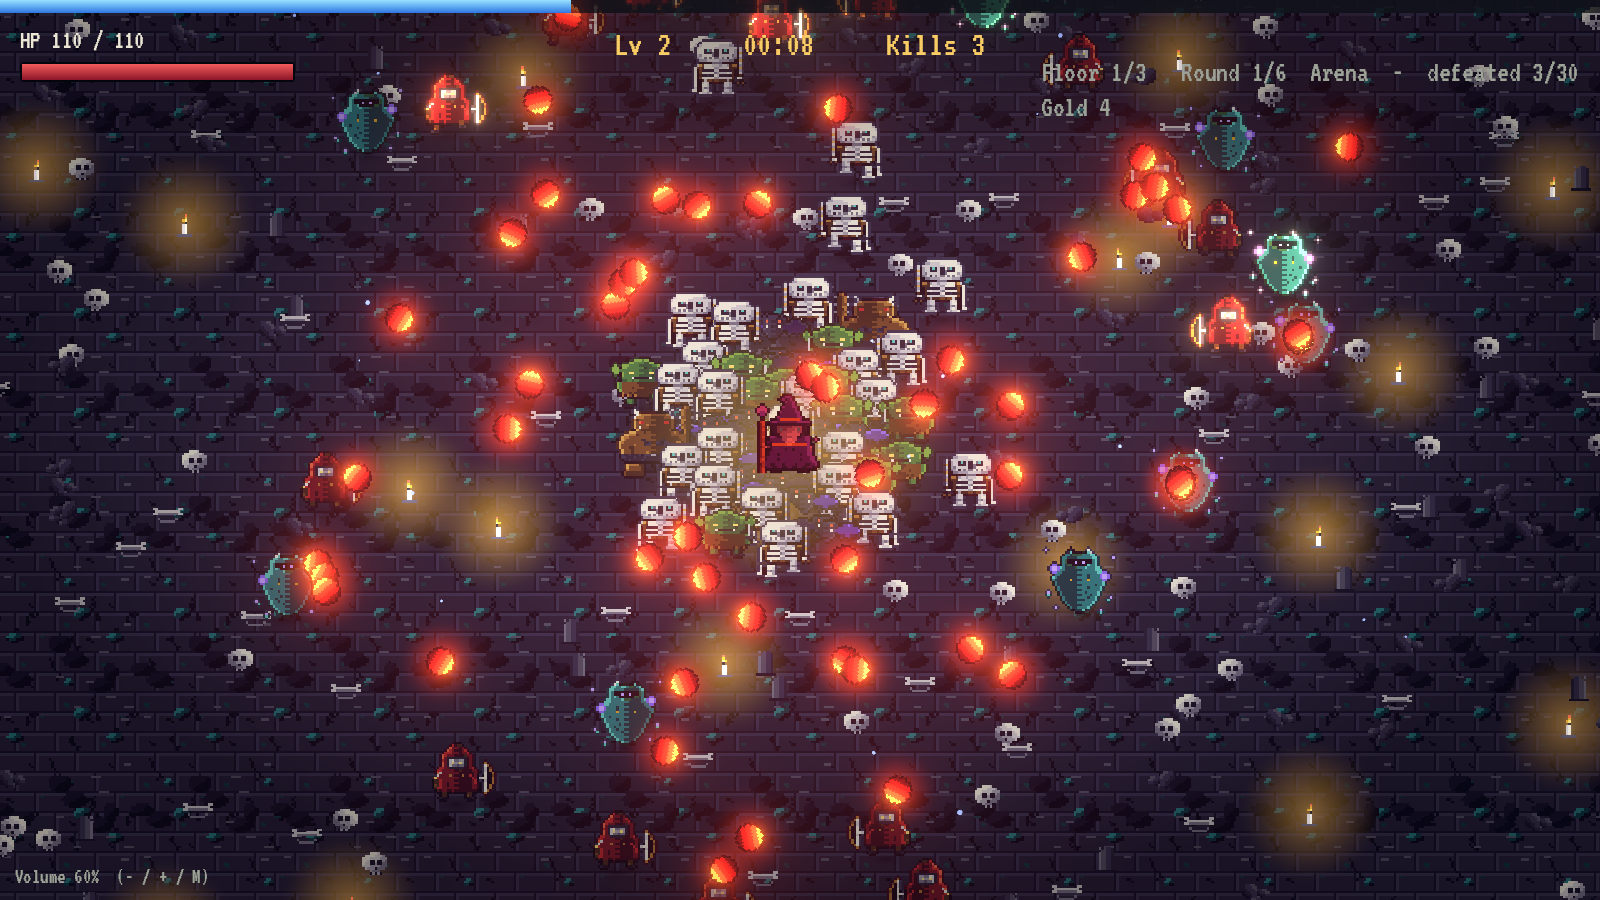
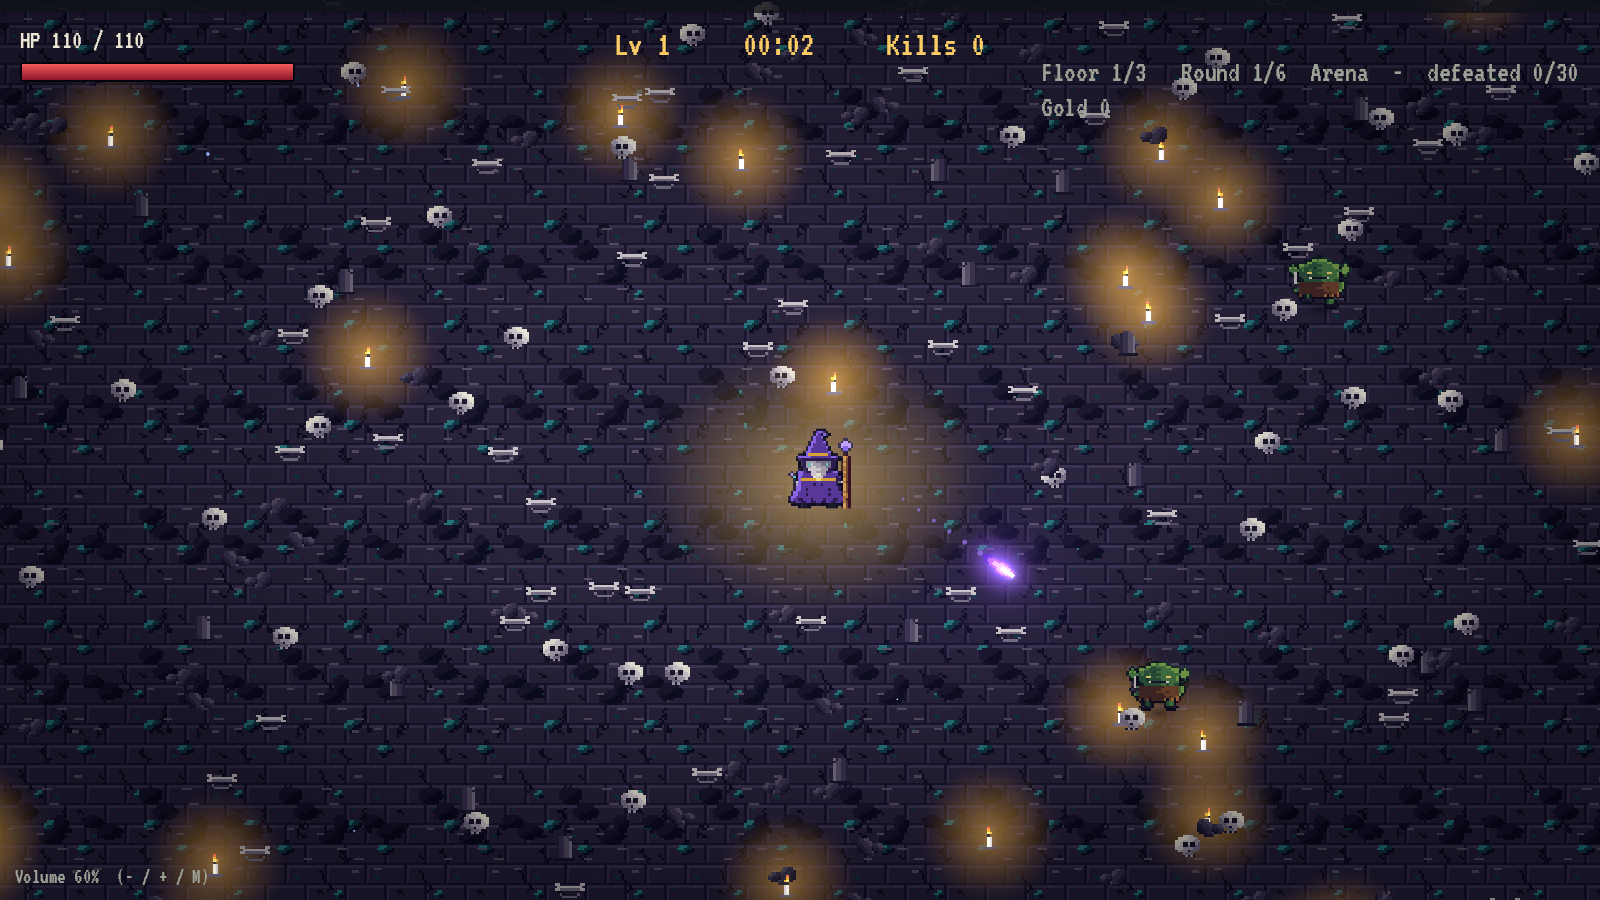
Show one uncluttered screenshot per world in the README
The crypt and forest shots buried the wizard in enemies and the inferno was
missing. Capture each world early in a run so the character stands out, and
replace the boss fight shot with the inferno.

diff --git a/README.md b/README.md
@@ -16,7 +16,7 @@ that survives three floors of rounds, shops and bosses - and the end boss.
 | | |
 | --- | --- |
 | ![Main menu](docs/screenshots/menu.png) | ![Crypt](docs/screenshots/crypt.png) |
-| ![Forest](docs/screenshots/forest.png) | ![Boss fight](docs/screenshots/boss-fight.png) |
+| ![Forest](docs/screenshots/forest.png) | ![Inferno](docs/screenshots/inferno.png) |
 
 ## Features
 
